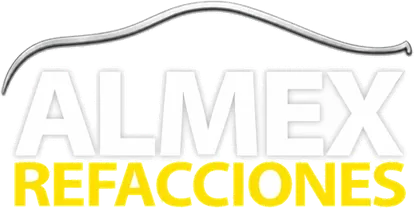
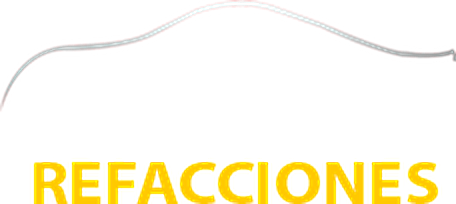
Chasis 40/20: un contenedor de 40' o uno de 20' por viaje
Sincroniza el repositorio con el sitio publicado:
- El chasis 40/20 lleva un solo contenedor (de 40' o de 20'), no dos de 20'.
  El texto y el dibujo lo reflejan: un contenedor de 20' y, punteado, el
  espacio de uno de 40'.
- Se quita la opción "Dos de 20' (chasis 40/20)" del formulario.
- Nuevo logo de ALMEX Refacciones (456 x 204).

Claude-Session: https://claude.ai/code/session_01Tkm3eSLHn1ynvbr9scKtMX

diff --git a/index.html b/index.html
@@ -1197,7 +1197,7 @@ main{min-height:100svh}
         <div data-reveal style="--i:2">
           <svg viewBox="0 0 330 100" aria-hidden="true" focusable="false"><use href="#ch4020"/></svg>
           <h3 class="h-item">Chasis 40/20</h3>
-          <p>Combinable: un contenedor de 40' o dos de 20' en el mismo viaje.</p>
+          <p>Versátil: lleva un contenedor de 40' o uno de 20', uno a la vez.</p>
         </div>
       </div>
     </div>
@@ -1253,7 +1253,7 @@ main{min-height:100svh}
           <span>Industria agrícola, transportamos sus semillas de maíz a diferentes lugares del país.</span>
         </li>
         <li data-reveal>
-          <span class="logo-cliente oscuro"><img src="assets/img/cliente-almex.webp" alt="ALMEX Refacciones" width="414" height="208" loading="lazy" decoding="async"></span>
+          <span class="logo-cliente oscuro"><img src="assets/img/cliente-almex.webp" alt="ALMEX Refacciones" width="456" height="204" loading="lazy" decoding="async"></span>
           <span>Refacciones y partes automotrices, confían en nosotros para transportar sus embarques.</span>
         </li>
         <li data-reveal>
@@ -1350,7 +1350,6 @@ main{min-height:100svh}
                   <option>20'</option>
                   <option>40'</option>
                   <option>40' high cube</option>
-                  <option>Dos de 20' (chasis 40/20)</option>
                 </optgroup>
                 <optgroup label="Campo">
                   <option>Tolva</option>
@@ -1803,7 +1802,7 @@ main{min-height:100svh}
 <symbol id="rig-jaula" viewBox="0 0 1000 300"><ellipse cx="490" cy="281" rx="480" ry="9" fill="url(#g-ground)"/><use href="#trailer-jaula-a"/><use href="#tractor-a"/><use href="#wheel" x="63" y="227" width="54" height="54"/><use href="#wheel" x="132" y="227" width="54" height="54"/><use href="#wheel" x="532" y="227" width="54" height="54"/><use href="#wheel" x="600" y="227" width="54" height="54"/><use href="#wheel" x="857" y="227" width="54" height="54"/><use href="#tractor-b"/></symbol>
 <symbol id="ch20" viewBox="0 0 330 100"><ellipse cx="79" cy="95" rx="71" ry="4" fill="url(#g-ground)"/><rect x="8" y="66" width="142" height="6" fill="url(#g-frame)"/><rect x="8" y="66" width="142" height="1" fill="#5A5E65"/><path d="M120,66 h30 v9 h-26 Z" fill="#2E3035"/><rect x="116" y="72" width="3" height="14" fill="#2A2C30"/><rect x="112" y="86" width="11" height="2" fill="#2A2C30"/><rect x="8" y="67" width="4" height="3" rx="1" fill="url(#g-tail)"/><rect x="14" y="72" width="2" height="12" fill="#2A2C30"/><rect x="9" y="83" width="18" height="3" fill="#1E1F23"/><rect x="10" y="16" width="104" height="50" fill="url(#p-corr-gris)"/><rect x="10" y="16" width="104" height="50" fill="url(#g-shade-v)"/><rect x="67.4" y="21" width="2.2" height="16.1" fill="#000000" fill-opacity="0.05"/><rect x="85.8" y="21" width="2.4" height="24.0" fill="#000000" fill-opacity="0.05"/><rect x="63.6" y="21" width="1.6" height="14.1" fill="#000000" fill-opacity="0.10"/><rect x="10" y="16" width="104" height="5" fill="#B2B9C1"/><rect x="10" y="21" width="104" height="1.2" fill="#000000" fill-opacity=".25"/><rect x="10" y="58" width="104" height="8" fill="#787E84"/><rect x="10" y="58" width="104" height="1.2" fill="#FFFFFF" fill-opacity=".14"/><rect x="10" y="16" width="10" height="50" fill="#939AA2"/><rect x="10" y="16" width="2" height="50" fill="#FFFFFF" fill-opacity=".14"/><rect x="18" y="16" width="2" height="50" fill="#000000" fill-opacity=".22"/><rect x="10" y="16" width="10" height="10" fill="#686C72"/><ellipse cx="15" cy="21" rx="2.4" ry="1.5" fill="#101114"/><rect x="10" y="56" width="10" height="10" fill="#686C72"/><ellipse cx="15" cy="61" rx="2.4" ry="1.5" fill="#101114"/><rect x="104" y="16" width="10" height="50" fill="#939AA2"/><rect x="104" y="16" width="2" height="50" fill="#FFFFFF" fill-opacity=".14"/><rect x="112" y="16" width="2" height="50" fill="#000000" fill-opacity=".22"/><rect x="104" y="16" width="10" height="10" fill="#686C72"/><ellipse cx="109" cy="21" rx="2.4" ry="1.5" fill="#101114"/><rect x="104" y="56" width="10" height="10" fill="#686C72"/><ellipse cx="109" cy="61" rx="2.4" ry="1.5" fill="#101114"/><use href="#wheel" x="30.5" y="76" width="19" height="19"/><use href="#wheel" x="54.5" y="76" width="19" height="19"/></symbol>
 <symbol id="ch40" viewBox="0 0 330 100"><ellipse cx="165" cy="95" rx="157" ry="4" fill="url(#g-ground)"/><rect x="8" y="66" width="314" height="6" fill="url(#g-frame)"/><rect x="8" y="66" width="314" height="1" fill="#5A5E65"/><path d="M292,66 h30 v9 h-26 Z" fill="#2E3035"/><rect x="247" y="72" width="3" height="14" fill="#2A2C30"/><rect x="243" y="86" width="11" height="2" fill="#2A2C30"/><rect x="8" y="67" width="4" height="3" rx="1" fill="url(#g-tail)"/><rect x="14" y="72" width="2" height="12" fill="#2A2C30"/><rect x="9" y="83" width="18" height="3" fill="#1E1F23"/><rect x="10" y="16" width="210" height="50" fill="url(#p-corr)"/><rect x="10" y="16" width="210" height="50" fill="url(#g-shade-v)"/><rect x="128.0" y="21" width="2.2" height="16.1" fill="#000000" fill-opacity="0.05"/><rect x="172.0" y="21" width="2.4" height="24.0" fill="#000000" fill-opacity="0.05"/><rect x="118.8" y="21" width="1.6" height="14.1" fill="#000000" fill-opacity="0.10"/><rect x="205.4" y="21" width="2.7" height="8.4" fill="#000000" fill-opacity="0.08"/><rect x="93.5" y="21" width="2.4" height="13.2" fill="#000000" fill-opacity="0.07"/><rect x="148.8" y="21" width="1.4" height="20.7" fill="#000000" fill-opacity="0.09"/><rect x="202.8" y="21" width="2.3" height="26.9" fill="#000000" fill-opacity="0.04"/><rect x="10" y="16" width="210" height="5" fill="#9C5349"/><rect x="10" y="21" width="210" height="1.2" fill="#000000" fill-opacity=".25"/><rect x="10" y="58" width="210" height="8" fill="#662A23"/><rect x="10" y="58" width="210" height="1.2" fill="#FFFFFF" fill-opacity=".14"/><rect x="10" y="16" width="10" height="50" fill="#7D342A"/><rect x="10" y="16" width="2" height="50" fill="#FFFFFF" fill-opacity=".14"/><rect x="18" y="16" width="2" height="50" fill="#000000" fill-opacity=".22"/><rect x="10" y="16" width="10" height="10" fill="#58251E"/><ellipse cx="15" cy="21" rx="2.4" ry="1.5" fill="#101114"/><rect x="10" y="56" width="10" height="10" fill="#58251E"/><ellipse cx="15" cy="61" rx="2.4" ry="1.5" fill="#101114"/><rect x="210" y="16" width="10" height="50" fill="#7D342A"/><rect x="210" y="16" width="2" height="50" fill="#FFFFFF" fill-opacity=".14"/><rect x="218" y="16" width="2" height="50" fill="#000000" fill-opacity=".22"/><rect x="210" y="16" width="10" height="10" fill="#58251E"/><ellipse cx="215" cy="21" rx="2.4" ry="1.5" fill="#101114"/><rect x="210" y="56" width="10" height="10" fill="#58251E"/><ellipse cx="215" cy="61" rx="2.4" ry="1.5" fill="#101114"/><use href="#wheel" x="30.5" y="76" width="19" height="19"/><use href="#wheel" x="54.5" y="76" width="19" height="19"/></symbol>
-<symbol id="ch4020" viewBox="0 0 330 100"><ellipse cx="165" cy="95" rx="157" ry="4" fill="url(#g-ground)"/><rect x="8" y="66" width="314" height="6" fill="url(#g-frame)"/><rect x="8" y="66" width="314" height="1" fill="#5A5E65"/><path d="M292,66 h30 v9 h-26 Z" fill="#2E3035"/><rect x="247" y="72" width="3" height="14" fill="#2A2C30"/><rect x="243" y="86" width="11" height="2" fill="#2A2C30"/><rect x="8" y="67" width="4" height="3" rx="1" fill="url(#g-tail)"/><rect x="14" y="72" width="2" height="12" fill="#2A2C30"/><rect x="9" y="83" width="18" height="3" fill="#1E1F23"/><rect x="10" y="16" width="104" height="50" fill="url(#p-corr-gris)"/><rect x="10" y="16" width="104" height="50" fill="url(#g-shade-v)"/><rect x="67.4" y="21" width="2.2" height="16.1" fill="#000000" fill-opacity="0.05"/><rect x="85.8" y="21" width="2.4" height="24.0" fill="#000000" fill-opacity="0.05"/><rect x="63.6" y="21" width="1.6" height="14.1" fill="#000000" fill-opacity="0.10"/><rect x="10" y="16" width="104" height="5" fill="#B2B9C1"/><rect x="10" y="21" width="104" height="1.2" fill="#000000" fill-opacity=".25"/><rect x="10" y="58" width="104" height="8" fill="#787E84"/><rect x="10" y="58" width="104" height="1.2" fill="#FFFFFF" fill-opacity=".14"/><rect x="10" y="16" width="10" height="50" fill="#939AA2"/><rect x="10" y="16" width="2" height="50" fill="#FFFFFF" fill-opacity=".14"/><rect x="18" y="16" width="2" height="50" fill="#000000" fill-opacity=".22"/><rect x="10" y="16" width="10" height="10" fill="#686C72"/><ellipse cx="15" cy="21" rx="2.4" ry="1.5" fill="#101114"/><rect x="10" y="56" width="10" height="10" fill="#686C72"/><ellipse cx="15" cy="61" rx="2.4" ry="1.5" fill="#101114"/><rect x="104" y="16" width="10" height="50" fill="#939AA2"/><rect x="104" y="16" width="2" height="50" fill="#FFFFFF" fill-opacity=".14"/><rect x="112" y="16" width="2" height="50" fill="#000000" fill-opacity=".22"/><rect x="104" y="16" width="10" height="10" fill="#686C72"/><ellipse cx="109" cy="21" rx="2.4" ry="1.5" fill="#101114"/><rect x="104" y="56" width="10" height="10" fill="#686C72"/><ellipse cx="109" cy="61" rx="2.4" ry="1.5" fill="#101114"/><rect x="116" y="16" width="104" height="50" fill="url(#p-corr)"/><rect x="116" y="16" width="104" height="50" fill="url(#g-shade-v)"/><rect x="192.4" y="21" width="2.5" height="19.5" fill="#000000" fill-opacity="0.04"/><rect x="179.1" y="21" width="2.1" height="22.3" fill="#000000" fill-opacity="0.07"/><rect x="148.7" y="21" width="2.3" height="15.7" fill="#000000" fill-opacity="0.09"/><rect x="116" y="16" width="104" height="5" fill="#9C5349"/><rect x="116" y="21" width="104" height="1.2" fill="#000000" fill-opacity=".25"/><rect x="116" y="58" width="104" height="8" fill="#662A23"/><rect x="116" y="58" width="104" height="1.2" fill="#FFFFFF" fill-opacity=".14"/><rect x="116" y="16" width="10" height="50" fill="#7D342A"/><rect x="116" y="16" width="2" height="50" fill="#FFFFFF" fill-opacity=".14"/><rect x="124" y="16" width="2" height="50" fill="#000000" fill-opacity=".22"/><rect x="116" y="16" width="10" height="10" fill="#58251E"/><ellipse cx="121" cy="21" rx="2.4" ry="1.5" fill="#101114"/><rect x="116" y="56" width="10" height="10" fill="#58251E"/><ellipse cx="121" cy="61" rx="2.4" ry="1.5" fill="#101114"/><rect x="210" y="16" width="10" height="50" fill="#7D342A"/><rect x="210" y="16" width="2" height="50" fill="#FFFFFF" fill-opacity=".14"/><rect x="218" y="16" width="2" height="50" fill="#000000" fill-opacity=".22"/><rect x="210" y="16" width="10" height="10" fill="#58251E"/><ellipse cx="215" cy="21" rx="2.4" ry="1.5" fill="#101114"/><rect x="210" y="56" width="10" height="10" fill="#58251E"/><ellipse cx="215" cy="61" rx="2.4" ry="1.5" fill="#101114"/><use href="#wheel" x="30.5" y="76" width="19" height="19"/><use href="#wheel" x="54.5" y="76" width="19" height="19"/></symbol>
+<symbol id="ch4020" viewBox="0 0 330 100"><ellipse cx="165" cy="95" rx="157" ry="4" fill="url(#g-ground)"/><rect x="8" y="66" width="314" height="6" fill="url(#g-frame)"/><rect x="8" y="66" width="314" height="1" fill="#5A5E65"/><path d="M292,66 h30 v9 h-26 Z" fill="#2E3035"/><rect x="247" y="72" width="3" height="14" fill="#2A2C30"/><rect x="243" y="86" width="11" height="2" fill="#2A2C30"/><rect x="8" y="67" width="4" height="3" rx="1" fill="url(#g-tail)"/><rect x="14" y="72" width="2" height="12" fill="#2A2C30"/><rect x="9" y="83" width="18" height="3" fill="#1E1F23"/><rect x="10.75" y="16.75" width="208.5" height="48.5" rx="1" fill="none" stroke="#686B70" stroke-width="1.5" stroke-dasharray="5 4"/><rect x="10" y="16" width="104" height="50" fill="url(#p-corr-gris)"/><rect x="10" y="16" width="104" height="50" fill="url(#g-shade-v)"/><rect x="67.4" y="21" width="2.2" height="16.1" fill="#000000" fill-opacity="0.05"/><rect x="85.8" y="21" width="2.4" height="24.0" fill="#000000" fill-opacity="0.05"/><rect x="63.6" y="21" width="1.6" height="14.1" fill="#000000" fill-opacity="0.10"/><rect x="10" y="16" width="104" height="5" fill="#B2B9C1"/><rect x="10" y="21" width="104" height="1.2" fill="#000000" fill-opacity=".25"/><rect x="10" y="58" width="104" height="8" fill="#787E84"/><rect x="10" y="58" width="104" height="1.2" fill="#FFFFFF" fill-opacity=".14"/><rect x="10" y="16" width="10" height="50" fill="#939AA2"/><rect x="10" y="16" width="2" height="50" fill="#FFFFFF" fill-opacity=".14"/><rect x="18" y="16" width="2" height="50" fill="#000000" fill-opacity=".22"/><rect x="10" y="16" width="10" height="10" fill="#686C72"/><ellipse cx="15" cy="21" rx="2.4" ry="1.5" fill="#101114"/><rect x="10" y="56" width="10" height="10" fill="#686C72"/><ellipse cx="15" cy="61" rx="2.4" ry="1.5" fill="#101114"/><rect x="104" y="16" width="10" height="50" fill="#939AA2"/><rect x="104" y="16" width="2" height="50" fill="#FFFFFF" fill-opacity=".14"/><rect x="112" y="16" width="2" height="50" fill="#000000" fill-opacity=".22"/><rect x="104" y="16" width="10" height="10" fill="#686C72"/><ellipse cx="109" cy="21" rx="2.4" ry="1.5" fill="#101114"/><rect x="104" y="56" width="10" height="10" fill="#686C72"/><ellipse cx="109" cy="61" rx="2.4" ry="1.5" fill="#101114"/><use href="#wheel" x="30.5" y="76" width="19" height="19"/><use href="#wheel" x="54.5" y="76" width="19" height="19"/></symbol>
 <symbol id="truck-top" viewBox="0 0 160 1000"><rect x="22" y="14" width="124" height="976" rx="12" fill="#000000" fill-opacity=".22" transform="translate(9 6)"/><rect x="10" y="70" width="11" height="30" rx="3" fill="#1A1B1E"/><rect x="139" y="70" width="11" height="30" rx="3" fill="#1A1B1E"/><rect x="10" y="112" width="11" height="30" rx="3" fill="#1A1B1E"/><rect x="139" y="112" width="11" height="30" rx="3" fill="#1A1B1E"/><rect x="10" y="560" width="11" height="30" rx="3" fill="#1A1B1E"/><rect x="139" y="560" width="11" height="30" rx="3" fill="#1A1B1E"/><rect x="10" y="600" width="11" height="30" rx="3" fill="#1A1B1E"/><rect x="139" y="600" width="11" height="30" rx="3" fill="#1A1B1E"/><rect x="10" y="905" width="11" height="30" rx="3" fill="#1A1B1E"/><rect x="139" y="905" width="11" height="30" rx="3" fill="#1A1B1E"/><rect x="16" y="14" width="128" height="640" fill="#8E3B30"/><rect x="16" y="14" width="128" height="640" fill="url(#p-roof)"/><rect x="16" y="14" width="128" height="640" fill="url(#g-top-light)"/><rect x="16" y="14" width="128" height="640" fill="none" stroke="#5C261F" stroke-width="3"/><rect x="16" y="14" width="12" height="12" fill="#55231D"/><ellipse cx="22" cy="20" rx="3" ry="2" fill="#101114"/><rect x="16" y="642" width="12" height="12" fill="#55231D"/><ellipse cx="22" cy="648" rx="3" ry="2" fill="#101114"/><rect x="132" y="14" width="12" height="12" fill="#55231D"/><ellipse cx="138" cy="20" rx="3" ry="2" fill="#101114"/><rect x="132" y="642" width="12" height="12" fill="#55231D"/><ellipse cx="138" cy="648" rx="3" ry="2" fill="#101114"/><rect x="20" y="18" width="120" height="8" fill="#9F584F"/><circle cx="34" cy="676" r="6" fill="url(#g-hub)"/><circle cx="34" cy="676" r="3" fill="#2A2C30"/><path d="M20,690 Q20,680 32,680 H128 Q140,680 140,690 V820 H20 Z" fill="url(#g-roof-cab)"/><path d="M30,690 H130 V812 H30 Z" fill="#FFFFFF" fill-opacity=".10"/><path d="M20,800 H140 V826 Q80,834 20,826 Z" fill="#2A3F8C"/><rect x="54" y="818" width="7" height="4" rx="1.5" fill="#F7A23A"/><rect x="77" y="818" width="7" height="4" rx="1.5" fill="#F7A23A"/><rect x="100" y="818" width="7" height="4" rx="1.5" fill="#F7A23A"/><path d="M24,828 Q80,838 136,828 L132,852 Q80,860 28,852 Z" fill="url(#g-glass)"/><rect x="4" y="836" width="14" height="6" rx="2" fill="#1B1D21"/><rect x="142" y="836" width="14" height="6" rx="2" fill="#1B1D21"/><path d="M30,852 Q80,860 130,852 L126,968 Q80,982 34,968 Z" fill="url(#g-hood)"/><path d="M78,858 L78,972" stroke="#FFFFFF" stroke-opacity=".25" stroke-width="3"/><path d="M36,968 Q80,982 124,968 L122,980 Q80,992 38,980 Z" fill="url(#g-chrome-h)"/><rect x="40" y="960" width="16" height="6" rx="2" fill="#E4ECF6"/><rect x="104" y="960" width="16" height="6" rx="2" fill="#E4ECF6"/></symbol>
 <symbol id="c40" viewBox="0 0 17.2 86" width="17.2" height="86"><rect x=".6" width="16" height="86"/><rect x=".6" width="16" height="86" fill="url(#p-roof)"/><rect x=".6" width="16" height="2" fill="#FFFFFF" fill-opacity=".18"/><rect x=".6" width="1.6" height="86" fill="#FFFFFF" fill-opacity=".16"/><rect x="1" y=".4" width="15.2" height="85.2" fill="none" stroke="#000000" stroke-opacity=".3" stroke-width=".8"/></symbol><symbol id="c20" viewBox="0 0 17.2 42" width="17.2" height="42"><rect x=".6" width="16" height="42"/><rect x=".6" width="16" height="42" fill="url(#p-roof)"/><rect x=".6" width="16" height="2" fill="#FFFFFF" fill-opacity=".18"/><rect x=".6" width="1.6" height="42" fill="#FFFFFF" fill-opacity=".16"/><rect x="1" y=".4" width="15.2" height="41.2" fill="none" stroke="#000000" stroke-opacity=".3" stroke-width=".8"/></symbol><symbol id="barco" viewBox="0 0 360 1300"><g filter="url(#f-foam)"><path d="M140,1030 Q128,1160 104,1300 H256 Q232,1160 220,1030 Z" fill="url(#g-wake-c)"/><path d="M120,1010 Q72,1150 22,1300" fill="none" stroke="#FFFFFF" stroke-opacity=".32" stroke-width="5"/><path d="M240,1010 Q288,1150 338,1300" fill="none" stroke="#FFFFFF" stroke-opacity=".32" stroke-width="5"/><path d="M104,1040 Q66,1170 34,1300" fill="none" stroke="#FFFFFF" stroke-opacity=".14" stroke-width="3"/><path d="M256,1040 Q294,1170 326,1300" fill="none" stroke="#FFFFFF" stroke-opacity=".14" stroke-width="3"/><path d="M180,10 Q118,64 84,230" fill="none" stroke="#FFFFFF" stroke-opacity=".45" stroke-width="4"/><path d="M180,10 Q242,64 276,230" fill="none" stroke="#FFFFFF" stroke-opacity=".45" stroke-width="4"/><path d="M84,230 Q74,320 70,420" fill="none" stroke="#FFFFFF" stroke-opacity=".16" stroke-width="3"/><path d="M276,230 Q286,320 290,420" fill="none" stroke="#FFFFFF" stroke-opacity=".16" stroke-width="3"/></g><path d="M180,22 C228,60 270,140 278,260 L280,980 Q280,1046 214,1048 L146,1048 Q80,1046 80,980 L82,260 C90,140 132,60 180,22 Z" fill="#0B1640" fill-opacity=".45" transform="translate(12 14)" filter="url(#f-soft)"/><path d="M180,22 C228,60 270,140 278,260 L280,980 Q280,1046 214,1048 L146,1048 Q80,1046 80,980 L82,260 C90,140 132,60 180,22 Z" fill="url(#g-hull)"/><path d="M180,34 C222,70 262,146 270,262 L272,976 Q272,1038 212,1040 L148,1040 Q88,1038 88,976 L90,262 C98,146 138,70 180,34 Z" fill="#4F5D57"/><clipPath id="clip-deck"><path d="M180,34 C222,70 262,146 270,262 L272,976 Q272,1038 212,1040 L148,1040 Q88,1038 88,976 L90,262 C98,146 138,70 180,34 Z"/></clipPath><g clip-path="url(#clip-deck)"><rect x="80" y="30" width="200" height="170" fill="#5C6B63"/><path d="M100,188 Q180,150 260,188 L260,196 Q180,158 100,196 Z" fill="#E9ECEF"/><circle cx="150" cy="120" r="7" fill="#2E3438"/><circle cx="150" cy="120" r="4" fill="#8B959B"/><circle cx="210" cy="120" r="7" fill="#2E3438"/><circle cx="210" cy="120" r="4" fill="#8B959B"/><circle cx="140" cy="160" r="7" fill="#2E3438"/><circle cx="140" cy="160" r="4" fill="#8B959B"/><circle cx="220" cy="160" r="7" fill="#2E3438"/><circle cx="220" cy="160" r="4" fill="#8B959B"/><circle cx="112" cy="150" r="2.2" fill="#F2F4F6"/><circle cx="248" cy="150" r="2.2" fill="#F2F4F6"/><circle cx="124" cy="100" r="2.2" fill="#F2F4F6"/><circle cx="236" cy="100" r="2.2" fill="#F2F4F6"/><circle cx="180" cy="62" r="2.2" fill="#F2F4F6"/><rect x="176" y="80" width="8" height="8" fill="#F2F4F6"/></g><rect x="100.6" y="202" width="158.8" height="3" fill="#C9CFD4"/><use href="#c40" x="102.6" y="206.0" fill="#6173AA"/><use href="#c40" x="119.8" y="206.0" fill="#7D95B3"/><use href="#c40" x="137.0" y="206.0" fill="#7D95B3"/><rect x="154.8" y="208" width="6.8" height="84" fill="#000000" fill-opacity=".34"/><use href="#c40" x="154.2" y="206.0" fill="#6E89AA"/><rect x="172.0" y="208" width="3.4" height="84" fill="#000000" fill-opacity=".34"/><use href="#c20" x="171.4" y="206.0" fill="#9E4639"/><rect x="172.0" y="250.0" width="16.0" height="42.0" fill="#3E4A45"/><use href="#c40" x="188.6" y="206.0" fill="#4C5C7E"/><rect x="206.4" y="208" width="10.2" height="84" fill="#000000" fill-opacity=".34"/><use href="#c40" x="205.8" y="206.0" fill="#CED2D6"/><use href="#c40" x="223.0" y="206.0" fill="#48725E"/><use href="#c20" x="240.2" y="206.0" fill="#7D95B3"/><use href="#c20" x="240.2" y="250.0" fill="#DE8453"/><rect x="102.6" y="292" width="154.8" height="5" fill="#000000" fill-opacity=".22"/><rect x="92.0" y="294" width="176.0" height="3" fill="#C9CFD4"/><use href="#c40" x="94.0" y="298.0" fill="#9E4639"/><rect x="111.8" y="298.0" width="16.0" height="86.0" fill="#3E4A45"/><use href="#c20" x="128.4" y="298.0" fill="#587F6C"/><use href="#c20" x="128.4" y="342.0" fill="#964A40"/><rect x="146.2" y="300" width="3.4" height="84" fill="#000000" fill-opacity=".34"/><use href="#c40" x="145.6" y="298.0" fill="#6E89AA"/><use href="#c20" x="162.8" y="298.0" fill="#909AA2"/><use href="#c20" x="162.8" y="342.0" fill="#909AA2"/><rect x="180.6" y="300" width="6.8" height="84" fill="#000000" fill-opacity=".34"/><use href="#c20" x="180.0" y="298.0" fill="#3A668D"/><use href="#c20" x="180.0" y="342.0" fill="#83372C"/><use href="#c20" x="197.2" y="298.0" fill="#485D9A"/><use href="#c20" x="197.2" y="342.0" fill="#8A3A2F"/><use href="#c40" x="214.4" y="298.0" fill="#CED2D6"/><use href="#c40" x="231.6" y="298.0" fill="#CDA253"/><rect x="249.4" y="300" width="6.8" height="84" fill="#000000" fill-opacity=".34"/><use href="#c40" x="248.8" y="298.0" fill="#C49643"/><rect x="94.0" y="384" width="172.0" height="5" fill="#000000" fill-opacity=".22"/><rect x="92.0" y="386" width="176.0" height="3" fill="#C9CFD4"/><use href="#c40" x="94.0" y="390.0" fill="#D4D8DC"/><rect x="111.8" y="392" width="6.8" height="84" fill="#000000" fill-opacity=".34"/><use href="#c20" x="111.2" y="390.0" fill="#828C94"/><use href="#c20" x="111.2" y="434.0" fill="#964336"/><use href="#c20" x="128.4" y="390.0" fill="#D4D8DC"/><rect x="129.0" y="434.0" width="16.0" height="42.0" fill="#3E4A45"/><use href="#c40" x="145.6" y="390.0" fill="#44729B"/><rect x="163.4" y="392" width="6.8" height="84" fill="#000000" fill-opacity=".34"/><use href="#c40" x="162.8" y="390.0" fill="#C96A36"/><use href="#c20" x="180.0" y="390.0" fill="#6E89AA"/><use href="#c20" x="180.0" y="434.0" fill="#D4D8DC"/><rect x="197.8" y="392" width="3.4" height="84" fill="#000000" fill-opacity=".34"/><use href="#c40" x="197.2" y="390.0" fill="#CED2D6"/><use href="#c20" x="214.4" y="390.0" fill="#DC7E49"/><use href="#c20" x="214.4" y="434.0" fill="#CDA253"/><rect x="232.2" y="392" width="6.8" height="84" fill="#000000" fill-opacity=".34"/><use href="#c40" x="231.6" y="390.0" fill="#C49643"/><rect x="249.4" y="392" width="3.4" height="84" fill="#000000" fill-opacity=".34"/><use href="#c20" x="248.8" y="390.0" fill="#6D4A62"/><use href="#c20" x="248.8" y="434.0" fill="#C3C7CB"/><rect x="94.0" y="476" width="172.0" height="5" fill="#000000" fill-opacity=".22"/><rect x="92.0" y="478" width="176.0" height="3" fill="#C9CFD4"/><use href="#c40" x="94.0" y="482.0" fill="#758FAF"/><rect x="111.8" y="484" width="3.4" height="84" fill="#000000" fill-opacity=".34"/><use href="#c20" x="111.2" y="482.0" fill="#D4D8DC"/><use href="#c20" x="111.2" y="526.0" fill="#A44D3F"/><use href="#c40" x="128.4" y="482.0" fill="#A95649"/><use href="#c20" x="145.6" y="482.0" fill="#87667D"/><use href="#c20" x="145.6" y="526.0" fill="#5780A5"/><rect x="163.4" y="484" width="6.8" height="84" fill="#000000" fill-opacity=".34"/><use href="#c20" x="162.8" y="482.0" fill="#4F7864"/><use href="#c20" x="162.8" y="526.0" fill="#914035"/><rect x="180.6" y="484" width="3.4" height="84" fill="#000000" fill-opacity=".34"/><use href="#c40" x="180.0" y="482.0" fill="#3D6B94"/><use href="#c40" x="197.2" y="482.0" fill="#48725E"/><use href="#c40" x="214.4" y="482.0" fill="#9E4639"/><use href="#c20" x="231.6" y="482.0" fill="#4F7864"/><use href="#c20" x="231.6" y="526.0" fill="#909AA2"/><use href="#c40" x="248.8" y="482.0" fill="#AE5F53"/><rect x="94.0" y="568" width="172.0" height="5" fill="#000000" fill-opacity=".22"/><rect x="92.0" y="570" width="176.0" height="3" fill="#C9CFD4"/><rect x="94.6" y="574.0" width="16.0" height="86.0" fill="#3E4A45"/><rect x="111.8" y="576" width="3.4" height="84" fill="#000000" fill-opacity=".34"/><rect x="111.8" y="574.0" width="16.0" height="86.0" fill="#3E4A45"/><rect x="129.0" y="576" width="10.2" height="84" fill="#000000" fill-opacity=".34"/><use href="#c40" x="128.4" y="574.0" fill="#964336"/><use href="#c40" x="145.6" y="574.0" fill="#6783A4"/><use href="#c20" x="162.8" y="574.0" fill="#CDA253"/><use href="#c20" x="162.8" y="618.0" fill="#CDA253"/><use href="#c40" x="180.0" y="574.0" fill="#587F6C"/><rect x="197.8" y="576" width="6.8" height="84" fill="#000000" fill-opacity=".34"/><use href="#c40" x="197.2" y="574.0" fill="#9E4639"/><use href="#c40" x="214.4" y="574.0" fill="#9BA4AC"/><rect x="232.2" y="576" width="10.2" height="84" fill="#000000" fill-opacity=".34"/><use href="#c40" x="231.6" y="574.0" fill="#CED2D6"/><use href="#c40" x="248.8" y="574.0" fill="#425376"/><rect x="94.0" y="660" width="172.0" height="5" fill="#000000" fill-opacity=".22"/><rect x="92.0" y="662" width="176.0" height="3" fill="#C9CFD4"/><use href="#c40" x="94.0" y="666.0" fill="#D0A75C"/><rect x="111.8" y="668" width="6.8" height="84" fill="#000000" fill-opacity=".34"/><use href="#c40" x="111.2" y="666.0" fill="#CA9D4A"/><rect x="129.0" y="668" width="6.8" height="84" fill="#000000" fill-opacity=".34"/><use href="#c40" x="128.4" y="666.0" fill="#C3C7CB"/><use href="#c40" x="145.6" y="666.0" fill="#DC7E49"/><rect x="163.4" y="668" width="3.4" height="84" fill="#000000" fill-opacity=".34"/><use href="#c40" x="162.8" y="666.0" fill="#44729B"/><rect x="180.6" y="668" width="3.4" height="84" fill="#000000" fill-opacity=".34"/><use href="#c40" x="180.0" y="666.0" fill="#9E4639"/><use href="#c40" x="197.2" y="666.0" fill="#D4D8DC"/><rect x="215.0" y="668" width="3.4" height="84" fill="#000000" fill-opacity=".34"/><use href="#c40" x="214.4" y="666.0" fill="#48725E"/><use href="#c40" x="231.6" y="666.0" fill="#CDA253"/><use href="#c40" x="248.8" y="666.0" fill="#9C544A"/><rect x="94.0" y="752" width="172.0" height="5" fill="#000000" fill-opacity=".22"/><rect x="92.0" y="754" width="176.0" height="3" fill="#C9CFD4"/><use href="#c40" x="94.0" y="758.0" fill="#758FAF"/><use href="#c20" x="111.2" y="758.0" fill="#AE5F53"/><use href="#c20" x="111.2" y="802.0" fill="#D8DCE0"/><rect x="129.0" y="760" width="3.4" height="84" fill="#000000" fill-opacity=".34"/><use href="#c40" x="128.4" y="758.0" fill="#A95649"/><rect x="146.2" y="760" width="6.8" height="84" fill="#000000" fill-opacity=".34"/><use href="#c40" x="145.6" y="758.0" fill="#3D6B94"/><rect x="163.4" y="760" width="3.4" height="84" fill="#000000" fill-opacity=".34"/><use href="#c40" x="162.8" y="758.0" fill="#445892"/><use href="#c40" x="180.0" y="758.0" fill="#D4D8DC"/><rect x="197.8" y="760" width="6.8" height="84" fill="#000000" fill-opacity=".34"/><use href="#c20" x="197.2" y="758.0" fill="#3A668D"/><use href="#c20" x="197.2" y="802.0" fill="#2F4063"/><use href="#c40" x="214.4" y="758.0" fill="#44729B"/><use href="#c40" x="231.6" y="758.0" fill="#DC7E49"/><rect x="249.4" y="760" width="3.4" height="84" fill="#000000" fill-opacity=".34"/><use href="#c40" x="248.8" y="758.0" fill="#6E89AA"/><rect x="94.0" y="844" width="172.0" height="5" fill="#000000" fill-opacity=".22"/><rect x="72" y="852" width="216" height="22" rx="3" fill="#000000" fill-opacity=".25" transform="translate(6 8)"/><rect x="72" y="852" width="216" height="22" rx="3" fill="#F3F5F7"/><rect x="76" y="853" width="208" height="5" fill="#1F2B3A"/><rect x="108" y="872" width="144" height="58" rx="3" fill="#000000" fill-opacity=".25" transform="translate(7 9)"/><rect x="108" y="872" width="144" height="58" rx="3" fill="url(#g-bridge)"/><rect x="120" y="884" width="120" height="3" fill="#C3C9CF"/><rect x="120" y="896" width="120" height="3" fill="#C3C9CF"/><rect x="160" y="880" width="40" height="4" rx="2" fill="#9AA2AA"/><path d="M180,876 V926 M168,900 H192" stroke="#7D858E" stroke-width="2"/><rect x="196" y="905" width="26" height="3" rx="1.5" fill="#2A2E35"/><rect x="152" y="934" width="56" height="34" rx="9" fill="#000000" fill-opacity=".25" transform="translate(6 8)"/><rect x="152" y="934" width="56" height="34" rx="9" fill="#2A2E35"/><rect x="152" y="944" width="56" height="10" fill="#F26F22"/><rect x="166" y="940" width="10" height="6" rx="2" fill="#0E1012"/><rect x="184" y="940" width="10" height="6" rx="2" fill="#0E1012"/><rect x="232" y="1004" width="16" height="30" rx="7" fill="#F26F22"/><rect x="234" y="1008" width="12" height="6" rx="2" fill="#FFFFFF" fill-opacity=".5"/><circle cx="128" cy="1018" r="5.5" fill="#2E3438"/><circle cx="128" cy="1018" r="3" fill="#8B959B"/><circle cx="160" cy="1026" r="5.5" fill="#2E3438"/><circle cx="160" cy="1026" r="3" fill="#8B959B"/><circle cx="200" cy="1026" r="5.5" fill="#2E3438"/><circle cx="200" cy="1026" r="3" fill="#8B959B"/><circle cx="110" cy="1034" r="2" fill="#F2F4F6"/><circle cx="250" cy="1034" r="2" fill="#F2F4F6"/><path d="M180,22 C228,60 270,140 278,260 L280,980 Q280,1046 214,1048 L146,1048 Q80,1046 80,980 L82,260 C90,140 132,60 180,22 Z" fill="url(#g-hull-light)"/></symbol>
 <symbol id="planta" viewBox="0 0 40 130" width="40" height="130" overflow="visible"><path d="M19.2,130 L19.6,16 L20.6,16 L21,130 Z" fill="currentColor"/><path d="M20,104 C10,96 4,98 -6,104 C4,92 12,92 20,98 Z" fill="currentColor"/><path d="M20,86 C30,76 38,78 46,82 C38,70 28,72 20,80 Z" fill="currentColor"/><path d="M20,68 C10,56 2,58 -6,60 C2,48 12,50 20,62 Z" fill="currentColor"/><path d="M20,52 C30,40 38,40 44,44 C38,32 28,34 20,46 Z" fill="currentColor"/><path d="M20,36 C14,26 8,24 2,26 C8,18 16,20 20,30 Z" fill="currentColor"/><path d="M21,76 C26,72 27,62 24,56 C21,60 20,68 21,76 Z" fill="#D9B95A" fill-opacity=".9"/><path d="M20,16 L20,2 M20,10 L14,4 M20,10 L26,4 M20,13 L12,9 M20,13 L28,9" stroke="#D6B04C" stroke-width="1.3" stroke-linecap="round" fill="none"/></symbol>
